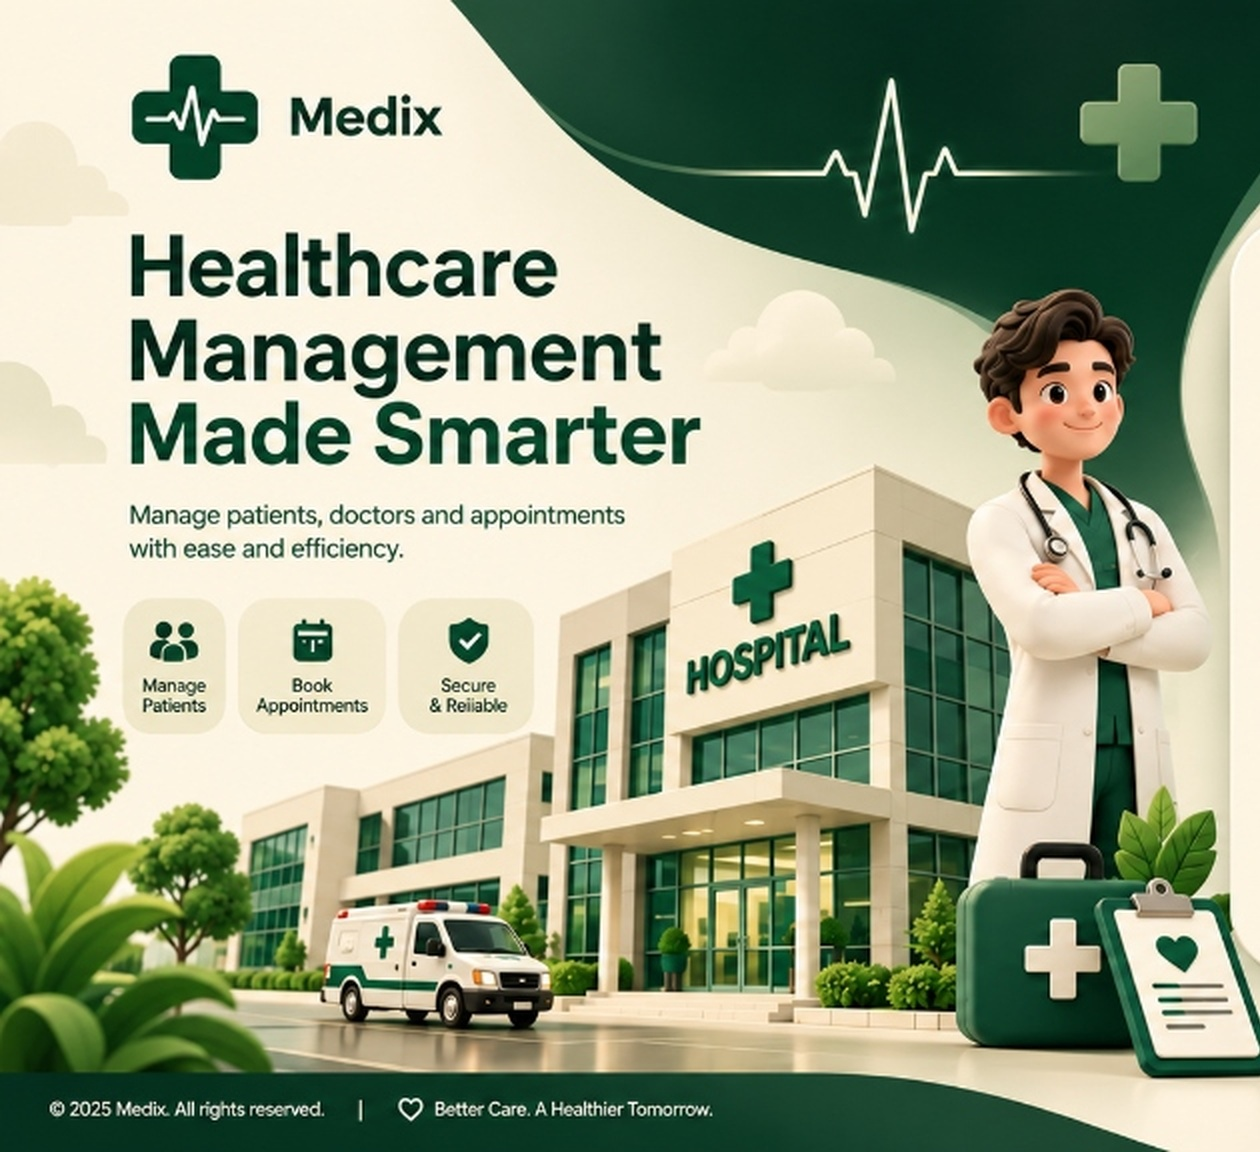
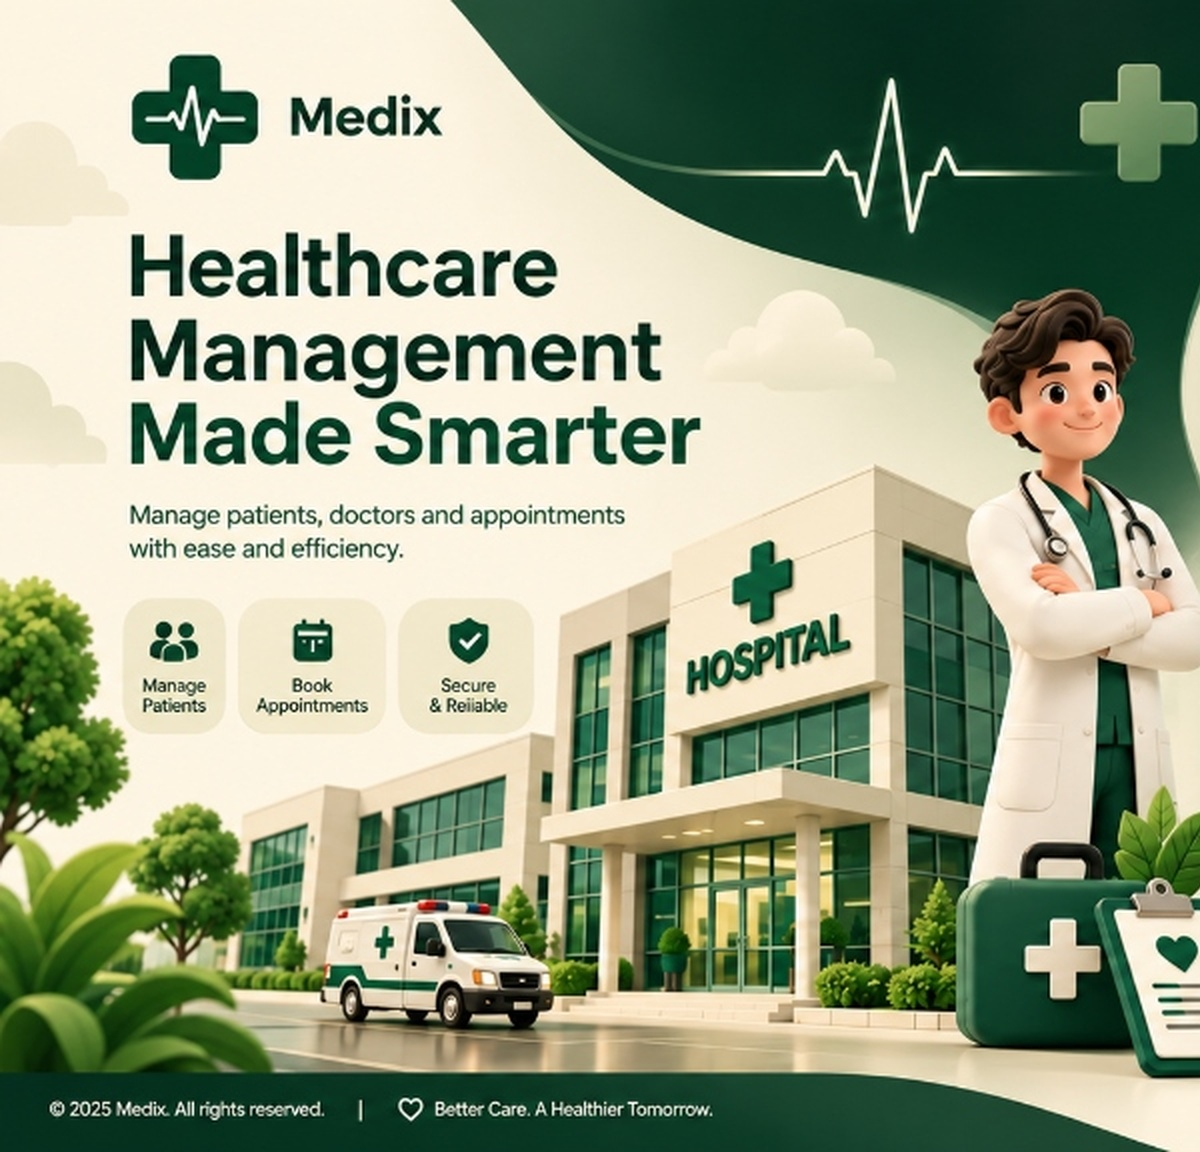
Ensure doctor head is fully visible with complete uncropped 3D healthcare scene matching original mockup

diff --git a/staff-login.html b/staff-login.html
@@ -43,63 +43,19 @@
     <!-- Main 2-Column Split Container -->
     <main class="medix-split-container">
       
-      <!-- Left Column: Branding, Headline, Badges, 3D Hospital Graphic -->
+      <!-- Left Column: Complete 3D Healthcare Scene (Doctor with full head, hospital & branding) -->
       <section class="medix-hero-col">
-        <!-- Logo -->
-        <a href="./index.html" class="medix-logo-row" aria-label="Medix Homepage">
-          <div class="medix-logo-icon">
-            <svg width="36" height="36" viewBox="0 0 36 36" fill="none" xmlns="http://www.w3.org/2000/svg">
-              <rect width="36" height="36" rx="10" fill="#0A3323"/>
-              <!-- Green Medical Cross -->
-              <path d="M14 8h8v7h7v8h-7v7h-8v-7H7v-8h7V8z" fill="#145A3E"/>
-              <!-- ECG Heartbeat Pulse Line cutting through -->
-              <path d="M4 18h8l2.5-6 4 12 3.5-9 2 4.5 2-1.5h8" stroke="#FFFFFF" stroke-width="2.2" stroke-linecap="round" stroke-linejoin="round"/>
-            </svg>
-          </div>
-          <span class="medix-logo-text">Medix</span>
-          <span class="medix-logo-tag">Staff Portal</span>
-        </a>
-
-        <!-- Headline -->
-        <h1 class="medix-headline">Healthcare<br>Management<br>Made Smarter</h1>
-
-        <!-- Subtitle -->
-        <p class="medix-subhead">Clinical staff management: coordinate real-time doctor rosters, emergency admissions, and patient beds.</p>
-
-        <!-- 3 Feature Badges -->
-        <div class="medix-badges-row">
-          <div class="medix-badge-item">
-            <div class="medix-badge-icon">
-              <svg width="20" height="20" viewBox="0 0 24 24" fill="currentColor">
-                <path d="M16 11c1.66 0 2.99-1.34 2.99-3S17.66 5 16 5c-1.66 0-3 1.34-3 3s1.34 3 3 3zm-8 0c1.66 0 2.99-1.34 2.99-3S9.66 5 8 5C6.34 5 5 6.34 5 8s1.34 3 3 3zm0 2c-2.33 0-7 1.17-7 3.5V19h14v-2.5c0-2.33-4.67-3.5-7-3.5zm8 0c-.29 0-.62.02-.97.05 1.16.84 1.97 1.97 1.97 3.45V19h6v-2.5c0-2.33-4.67-3.5-7-3.5z"/>
-              </svg>
-            </div>
-            <span class="medix-badge-text">Manage<br>Patients</span>
-          </div>
-
-          <div class="medix-badge-item">
-            <div class="medix-badge-icon">
-              <svg width="20" height="20" viewBox="0 0 24 24" fill="currentColor">
-                <path d="M19 4h-1V2h-2v2H8V2H6v2H5c-1.11 0-1.99.9-1.99 2L3 20a2 2 0 0 0 2 2h14c1.1 0 2-.9 2-2V6c0-1.1-.9-2-2-2zm0 16H5V10h14v10zm0-12H5V6h14v2zM9 14H7v-2h2v2zm4 0h-2v-2h2v2zm4 0h-2v-2h2v2z"/>
-              </svg>
-            </div>
-            <span class="medix-badge-text">Book<br>Appointments</span>
-          </div>
-
-          <div class="medix-badge-item">
-            <div class="medix-badge-icon">
-              <svg width="20" height="20" viewBox="0 0 24 24" fill="currentColor">
-                <path d="M12 1L3 5v6c0 5.55 3.84 10.74 9 12 5.16-1.26 9-6.45 9-12V5l-9-4zm-2 16l-4-4 1.41-1.41L10 14.17l6.59-6.59L18 9l-8 8z"/>
-              </svg>
-            </div>
-            <span class="medix-badge-text">Secure<br>&amp; Reliable</span>
-          </div>
+        <div class="medix-scene-wrap">
+          <a href="./index.html" class="medix-logo-hotspot" aria-label="Medix Homepage" title="Medix Homepage"></a>
+          <img
+            src="./images/login-left-scene-2x.jpg"
+            alt="Healthcare Management Made Smarter - Medix Staff Portal"
+            class="medix-scene-img"
+            loading="eager"
+          />
         </div>
-
-        <!-- 3D Hospital & Doctor Artwork Visual -->
-        <div class="medix-hero-visual">
-          <img src="./images/login-doc-hospital.jpg" alt="Medix 3D Hospital with Doctor and Ambulance" loading="eager" />
-        </div>
+        <h1 style="position:absolute; width:1px; height:1px; padding:0; margin:-1px; overflow:hidden; clip:rect(0,0,0,0); border:0;">Healthcare Management Made Smarter - Medix Staff Portal</h1>
+        <p style="position:absolute; width:1px; height:1px; padding:0; margin:-1px; overflow:hidden; clip:rect(0,0,0,0); border:0;">Clinical staff management: coordinate real-time doctor rosters, emergency admissions, and patient beds.</p>
       </section>
 
       <!-- Right Column: Interactive Staff Login Form Card -->

diff --git a/login.html b/login.html
@@ -43,63 +43,19 @@
     <!-- Main 2-Column Split Container -->
     <main class="medix-split-container">
       
-      <!-- Left Column: Branding, Headline, Badges, 3D Hospital Graphic -->
+      <!-- Left Column: Complete 3D Healthcare Scene (Doctor with full head, hospital & branding) -->
       <section class="medix-hero-col">
-        <!-- Logo -->
-        <a href="./index.html" class="medix-logo-row" aria-label="Medix Homepage">
-          <div class="medix-logo-icon">
-            <svg width="36" height="36" viewBox="0 0 36 36" fill="none" xmlns="http://www.w3.org/2000/svg">
-              <rect width="36" height="36" rx="10" fill="#0A3323"/>
-              <!-- Green Medical Cross -->
-              <path d="M14 8h8v7h7v8h-7v7h-8v-7H7v-8h7V8z" fill="#145A3E"/>
-              <!-- ECG Heartbeat Pulse Line cutting through -->
-              <path d="M4 18h8l2.5-6 4 12 3.5-9 2 4.5 2-1.5h8" stroke="#FFFFFF" stroke-width="2.2" stroke-linecap="round" stroke-linejoin="round"/>
-            </svg>
-          </div>
-          <span class="medix-logo-text">Medix</span>
-          <span class="medix-logo-tag">MediPulse</span>
-        </a>
-
-        <!-- Headline -->
-        <h1 class="medix-headline">Healthcare<br>Management<br>Made Smarter</h1>
-
-        <!-- Subtitle -->
-        <p class="medix-subhead">Manage patients, doctors and appointments with ease and efficiency.</p>
-
-        <!-- 3 Feature Badges -->
-        <div class="medix-badges-row">
-          <div class="medix-badge-item">
-            <div class="medix-badge-icon">
-              <svg width="20" height="20" viewBox="0 0 24 24" fill="currentColor">
-                <path d="M16 11c1.66 0 2.99-1.34 2.99-3S17.66 5 16 5c-1.66 0-3 1.34-3 3s1.34 3 3 3zm-8 0c1.66 0 2.99-1.34 2.99-3S9.66 5 8 5C6.34 5 5 6.34 5 8s1.34 3 3 3zm0 2c-2.33 0-7 1.17-7 3.5V19h14v-2.5c0-2.33-4.67-3.5-7-3.5zm8 0c-.29 0-.62.02-.97.05 1.16.84 1.97 1.97 1.97 3.45V19h6v-2.5c0-2.33-4.67-3.5-7-3.5z"/>
-              </svg>
-            </div>
-            <span class="medix-badge-text">Manage<br>Patients</span>
-          </div>
-
-          <div class="medix-badge-item">
-            <div class="medix-badge-icon">
-              <svg width="20" height="20" viewBox="0 0 24 24" fill="currentColor">
-                <path d="M19 4h-1V2h-2v2H8V2H6v2H5c-1.11 0-1.99.9-1.99 2L3 20a2 2 0 0 0 2 2h14c1.1 0 2-.9 2-2V6c0-1.1-.9-2-2-2zm0 16H5V10h14v10zm0-12H5V6h14v2zM9 14H7v-2h2v2zm4 0h-2v-2h2v2zm4 0h-2v-2h2v2z"/>
-              </svg>
-            </div>
-            <span class="medix-badge-text">Book<br>Appointments</span>
-          </div>
-
-          <div class="medix-badge-item">
-            <div class="medix-badge-icon">
-              <svg width="20" height="20" viewBox="0 0 24 24" fill="currentColor">
-                <path d="M12 1L3 5v6c0 5.55 3.84 10.74 9 12 5.16-1.26 9-6.45 9-12V5l-9-4zm-2 16l-4-4 1.41-1.41L10 14.17l6.59-6.59L18 9l-8 8z"/>
-              </svg>
-            </div>
-            <span class="medix-badge-text">Secure<br>&amp; Reliable</span>
-          </div>
+        <div class="medix-scene-wrap">
+          <a href="./index.html" class="medix-logo-hotspot" aria-label="Medix Homepage" title="Medix Homepage"></a>
+          <img
+            src="./images/login-left-scene-2x.jpg"
+            alt="Healthcare Management Made Smarter - Medix"
+            class="medix-scene-img"
+            loading="eager"
+          />
         </div>
-
-        <!-- 3D Hospital & Doctor Artwork Visual -->
-        <div class="medix-hero-visual">
-          <img src="./images/login-doc-hospital.jpg" alt="Medix 3D Hospital with Doctor and Ambulance" loading="eager" />
-        </div>
+        <h1 style="position:absolute; width:1px; height:1px; padding:0; margin:-1px; overflow:hidden; clip:rect(0,0,0,0); border:0;">Healthcare Management Made Smarter - Medix</h1>
+        <p style="position:absolute; width:1px; height:1px; padding:0; margin:-1px; overflow:hidden; clip:rect(0,0,0,0); border:0;">Manage patients, doctors and appointments with ease and efficiency.</p>
       </section>
 
       <!-- Right Column: Interactive Login Form Card -->

diff --git a/css/login-medix.css b/css/login-medix.css
@@ -148,71 +148,53 @@ html, body {
   margin-left: 4px;
 }
 
-/* Headline & Subtitle */
-.medix-headline {
-  font-size: 42px;
-  font-weight: 850;
-  line-height: 1.14;
-  letter-spacing: -1.2px;
-  color: #07251B;
-  margin-bottom: 14px;
-}
-
-.medix-subhead {
-  font-size: 15.5px;
-  line-height: 1.5;
-  color: #4A6356;
-  margin-bottom: 24px;
-  max-width: 520px;
-}
-
-/* Feature Badges Row */
-.medix-badges-row {
-  display: flex;
-  align-items: center;
-  gap: 12px;
-  margin-bottom: 28px;
-  flex-wrap: wrap;
-}
-
-.medix-badge-item {
+/* =========================================================================
+   LEFT HERO COLUMN (Complete 3D Healthcare Scene matching original mockup)
+   ========================================================================= */
+.medix-hero-col {
   display: flex;
   flex-direction: column;
-  align-items: center;
   justify-content: center;
-  text-align: center;
-  padding: 12px 14px;
-  min-width: 86px;
-  background: #E8EFE3;
-  border: 1px solid #D6E4CD;
-  border-radius: 14px;
-  box-shadow: 0 4px 12px rgba(7, 37, 27, 0.05);
-  transition: transform 0.2s ease, box-shadow 0.2s ease;
+  align-items: center;
+  padding: 12px 0;
+  width: 100%;
 }
 
-.medix-badge-item:hover {
+.medix-scene-wrap {
+  width: 100%;
+  max-width: 660px;
+  border-radius: 26px;
+  overflow: hidden;
+  box-shadow: 0 24px 60px -12px rgba(4, 25, 17, 0.4);
+  position: relative;
+  background: #FAF6ED;
+  transition: transform 0.3s ease, box-shadow 0.3s ease;
+}
+
+.medix-scene-wrap:hover {
   transform: translateY(-2px);
-  box-shadow: 0 8px 18px rgba(7, 37, 27, 0.1);
+  box-shadow: 0 28px 70px -12px rgba(4, 25, 17, 0.5);
 }
 
-.medix-badge-icon {
-  width: 22px;
-  height: 22px;
-  margin-bottom: 6px;
-  color: #07251B;
-  display: flex;
-  align-items: center;
-  justify-content: center;
+.medix-scene-img {
+  width: 100%;
+  height: auto;
+  display: block;
+  object-fit: contain;
 }
 
-.medix-badge-text {
-  font-size: 11.5px;
-  font-weight: 600;
-  color: #07251B;
-  line-height: 1.25;
+.medix-logo-hotspot {
+  position: absolute;
+  top: 14px;
+  left: 18px;
+  width: 160px;
+  height: 50px;
+  z-index: 10;
+  border-radius: 12px;
+  cursor: pointer;
 }
 
-/* 3D Hospital & Doctor Visual */
+/* Fallback / secondary visual styles */
 .medix-hero-visual {
   width: 100%;
   max-width: 600px;
@@ -226,12 +208,7 @@ html, body {
   width: 100%;
   height: auto;
   display: block;
-  object-fit: cover;
-  transition: transform 0.4s ease;
-}
-
-.medix-hero-visual:hover img {
-  transform: scale(1.02);
+  object-fit: contain;
 }
 
 /* =========================================================================
@@ -981,7 +958,7 @@ html, body {
   .medix-split-container {
     grid-template-columns: 1fr;
     gap: 32px;
-    padding: 24px 24px 32px;
+    padding: 24px 20px 32px;
   }
   
   .medix-hero-col {
@@ -990,20 +967,8 @@ html, body {
     text-align: center;
   }
 
-  .medix-headline {
-    font-size: 34px;
-  }
-
-  .medix-subhead {
-    max-width: 100%;
-  }
-
-  .medix-badges-row {
-    justify-content: center;
-  }
-
-  .medix-hero-visual {
-    max-width: 480px;
+  .medix-scene-wrap {
+    max-width: 520px;
     margin: 0 auto;
   }
 
@@ -1017,34 +982,17 @@ html, body {
 
 @media (max-width: 600px) {
   .medix-split-container {
-    padding: 16px 16px 24px;
+    padding: 16px 14px 24px;
     gap: 20px;
   }
 
-  .medix-headline {
-    font-size: 28px;
-    line-height: 1.2;
-  }
-
-  .medix-subhead {
-    font-size: 14px;
+  .medix-scene-wrap {
+    max-width: 100%;
+    border-radius: 18px;
   }
 
   .medix-card {
     padding: 28px 20px 24px;
     border-radius: 22px;
-  }
-
-  .medix-badge-item {
-    min-width: 76px;
-    padding: 8px 10px;
-  }
-
-  .medix-badge-text {
-    font-size: 10.5px;
-  }
-
-  .medix-hero-visual {
-    display: none; /* Keep clean on small phones to keep form front & center */
   }
 }
